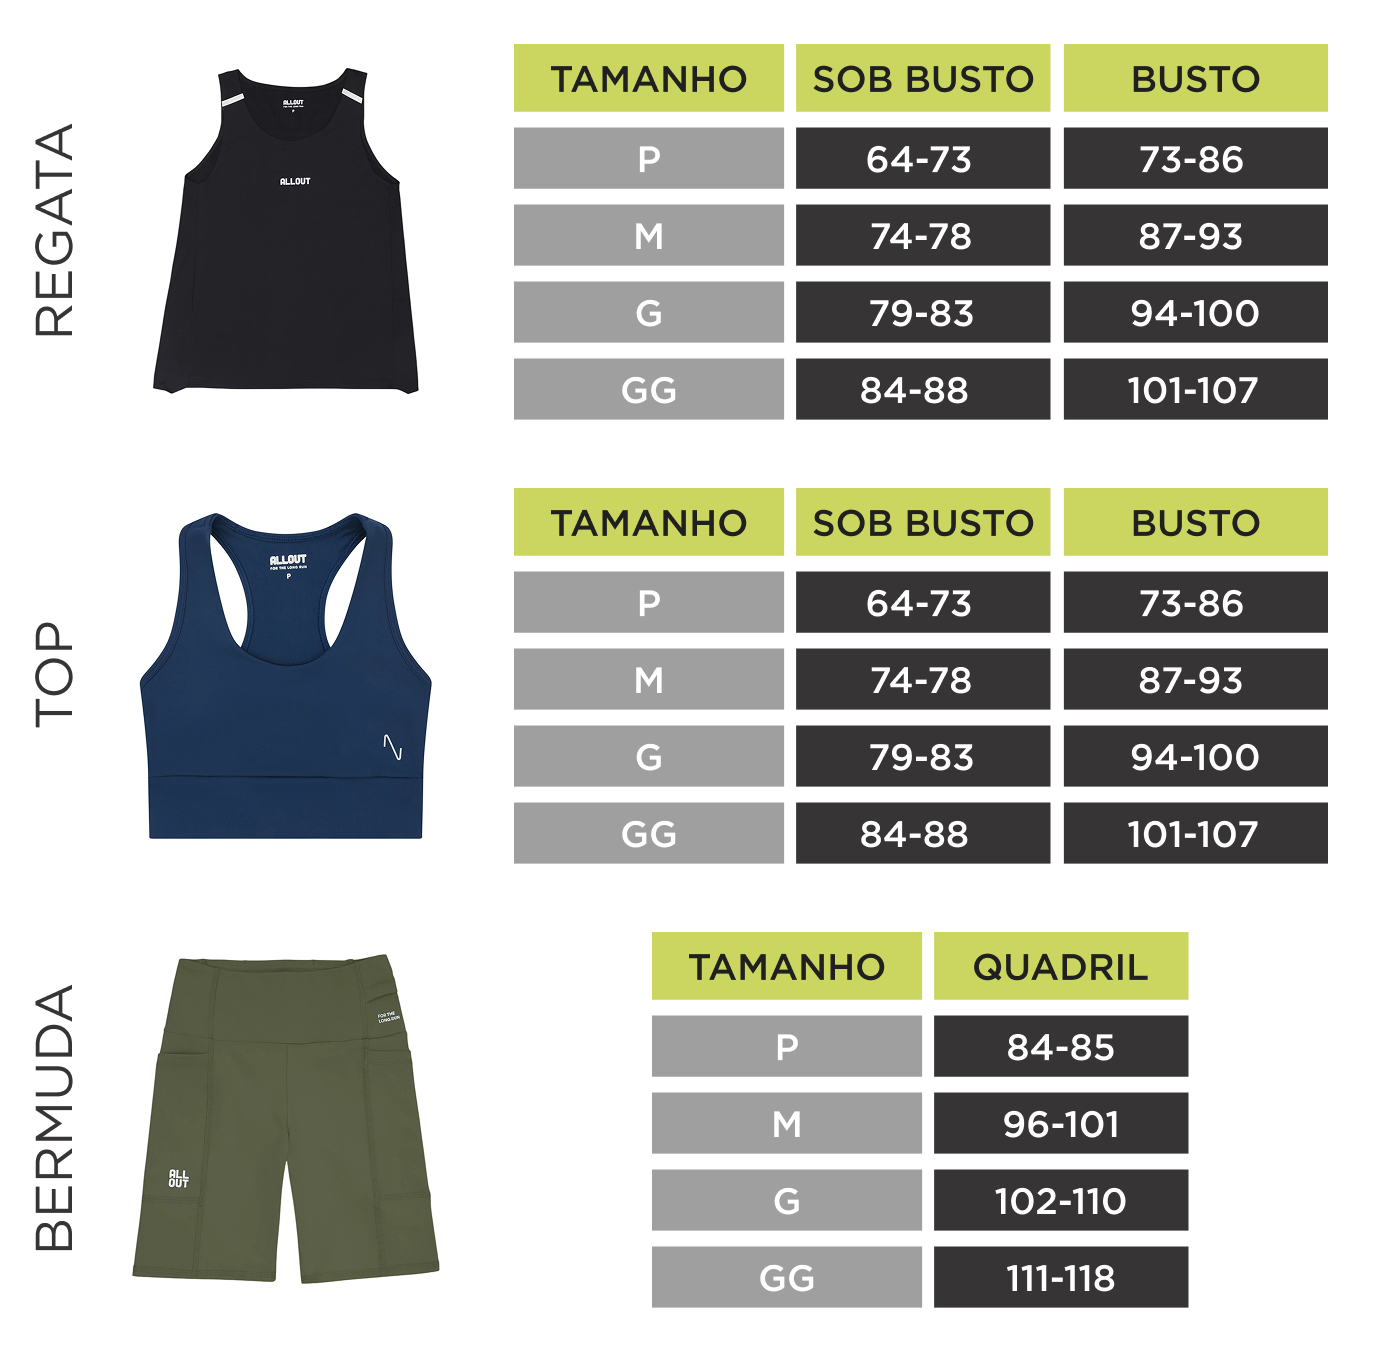
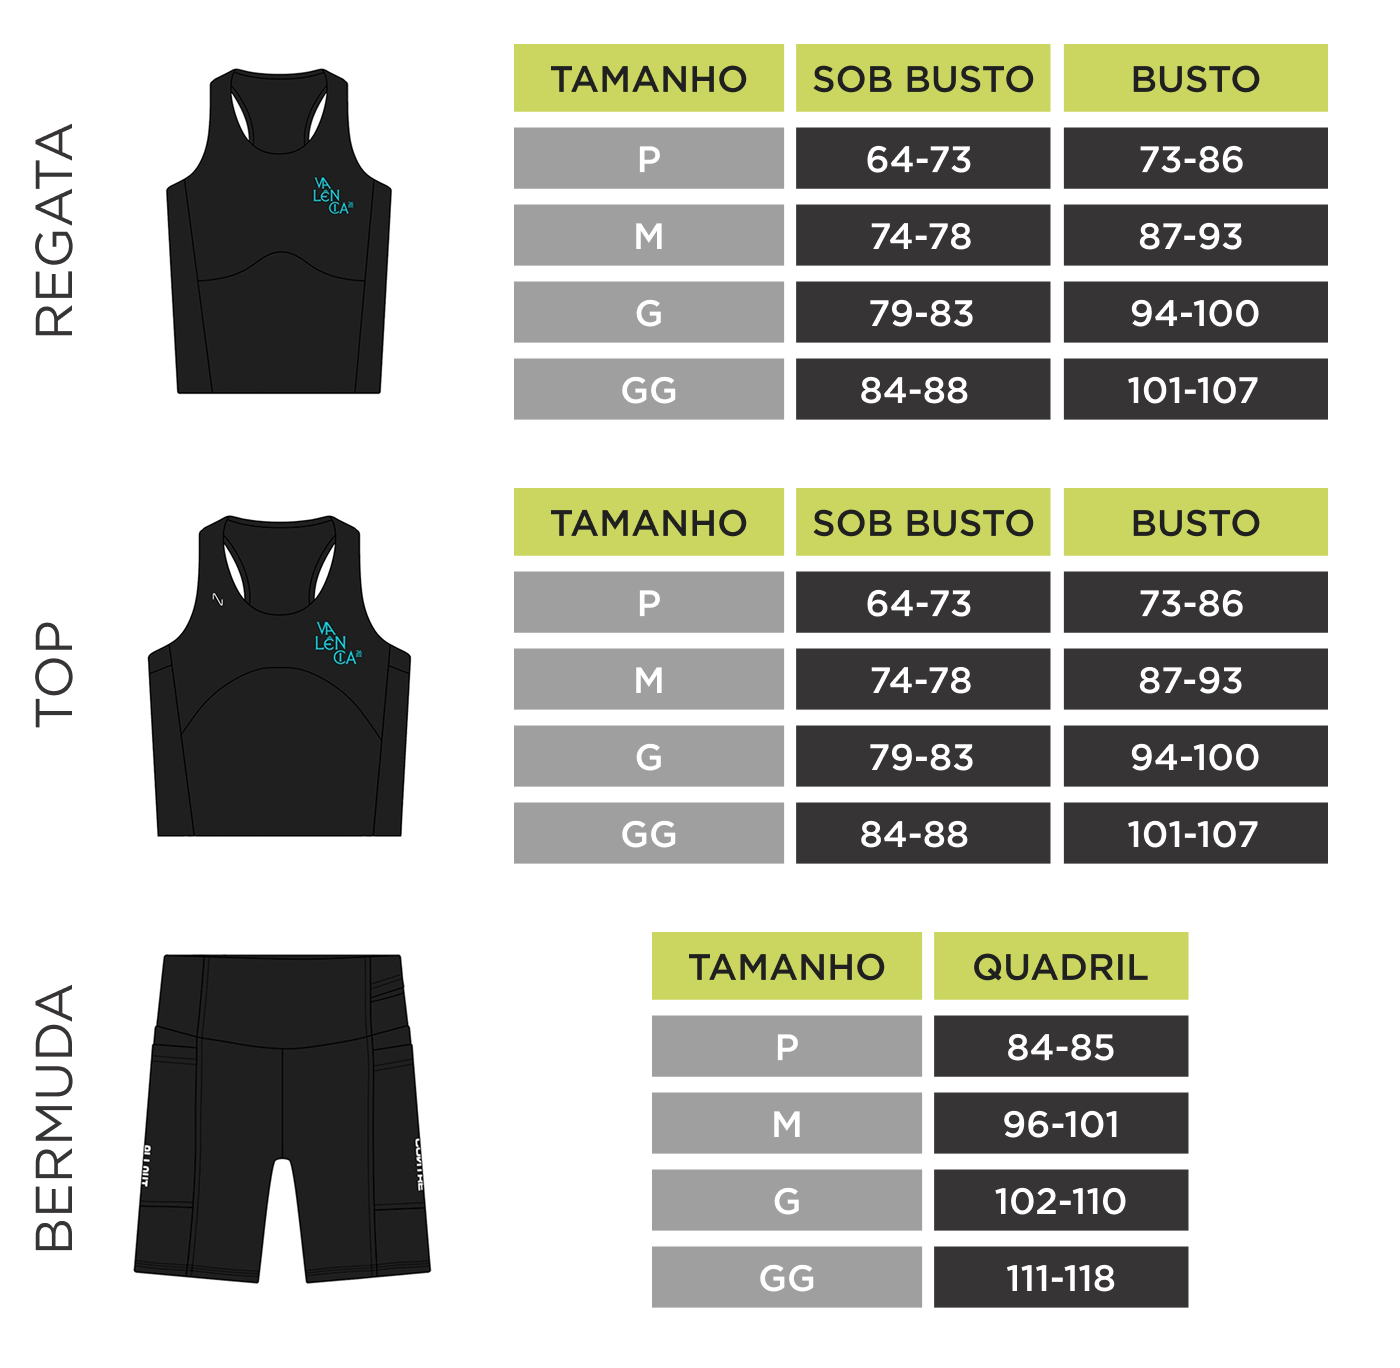
new file:   img/bermuda.jpeg 	new file:   img/regata_chicago.jpeg 	new file:   img/regata_valencia.jpeg 	modified:   img/tabela_tamanhos.png 	new file:   img/top_chicago.jpeg 	new file:   img/top_valencia.jpeg 	modified:   index.html

Changed region(s): [[0.0921, 0.6754, 0.3379, 0.9518], [0.0921, 0.3684, 0.3071, 0.614], [0.0921, 0.0307, 0.3071, 0.307]]

diff --git a/index.html b/index.html
@@ -126,6 +126,7 @@
 
   /* ---------- section shell ---------- */
   section.step{padding:44px 0;}
+  section.step.step-locked{display:none;}
   .step-head{display:flex;align-items:baseline;gap:14px;margin-bottom:22px;}
   .step-num{font-family:var(--font-body);font-size:13px;color:var(--muted);border:1px solid var(--line);border-radius:100px;width:30px;height:30px;display:flex;align-items:center;justify-content:center;flex:none;}
   .step-title{font-size:28px;}
@@ -151,7 +152,8 @@
   .race-card .rc-city{font-family:var(--font-display);font-weight:700;font-size:clamp(16px,2.2vw,30px);margin:4px 0 6px;}
   .race-card .rc-date{font-size:13px;color:var(--muted);}
   .race-card .rc-check{position:absolute;bottom:16px;right:16px;width:22px;height:22px;border-radius:50%;border:1.5px solid var(--line);}
-  .race-card .race-thumb{aspect-ratio:auto;height:140px;margin-bottom:14px;}
+  .race-card .race-thumb{aspect-ratio:auto;height:260px;margin-bottom:14px;}
+  .race-card .race-thumb img{width:100%;height:100%;object-fit:cover;object-position:center top;}
   .race-card.sel .rc-check{background:var(--lime);border-color:var(--lime);}
   .race-card.sel .rc-check::after{content:'✓';color:var(--lime-ink);font-size:13px;display:flex;align-items:center;justify-content:center;height:100%;font-weight:700;}
 
@@ -173,7 +175,7 @@
     aspect-ratio:1/1;border-radius:9px;background:linear-gradient(155deg,#1c1c1c 0%,#3a3a3a 45%,#0a0a0a 100%);
     position:relative;overflow:hidden;display:flex;align-items:center;justify-content:center;
   }
-  .g-thumb img{width:62%;height:62%;object-fit:contain;opacity:.92;}
+  .g-thumb img{width:100%;height:100%;object-fit:cover;object-position:center top;}
   .g-thumb .ph-badge{
     position:absolute;bottom:8px;left:8px;right:8px;
     font-family:var(--font-body);font-size:9.5px;color:#e7e7df;background:rgba(0,0,0,.45);
@@ -397,17 +399,41 @@ footer{
   <section class="step">
     <div class="step-head">
       <div class="step-num mono">01</div>
-      <div><div class="step-title">Escolha seu top</div><div class="step-sub">Ilustrações das peças entram aqui em breve.</div></div>
+      <div><div class="step-title">Qual prova você vai correr?</div></div>
+    </div>
+    <div class="race-grid">
+      <div class="race-card" data-race="chicago" data-code="CHI" data-city="Chicago" onclick="selectRace('chicago')">
+        <div class="rc-check"></div>
+        <div class="g-thumb race-thumb"><img src="img/top_chicago.jpeg" alt="Chicago"></div>
+        <div class="rc-city">Chicago</div>
+        <div class="rc-date">Maratona de Chicago · 08 a 12.10.2026</div>
+      </div>
+      <div class="race-card" data-race="valencia" data-code="VLC" data-city="Valência" onclick="selectRace('valencia')">
+        <div class="rc-check"></div>
+        <div class="g-thumb race-thumb"><img src="img/top_valencia.jpeg" alt="Valência"></div>
+        <div class="rc-city">Valência</div>
+        <div class="rc-date">Maratona de Valência · 03 a 07.12.2026</div>
+      </div>
+    </div>
+  </section>
+
+  <div class="perf"></div>
+
+  <!-- STEP 2 -->
+  <section class="step step-locked" id="step-top">
+    <div class="step-head">
+      <div class="step-num mono">02</div>
+      <div><div class="step-title">Escolha seu top</div><div class="step-sub"><em>Imagens meramente ilustrativas.</em></div></div>
     </div>
 
     <div class="garment-grid" id="top-grid">
       <div class="g-card" data-item="topA" onclick="selectGarment('top','topA')">
-        <div class="g-thumb"><img src="img/top-a.png" alt="Opção 1 de top"><div class="ph-badge">FOTO EM BREVE</div></div>
-        <div class="g-info"><div class="g-name">Opção 1</div><div class="g-radio"></div></div>
+        <div class="g-thumb"><img id="top-a-img" src="" alt=""></div>
+        <div class="g-info"><div class="g-name" id="top-a-name">Opção 1</div><div class="g-radio"></div></div>
       </div>
       <div class="g-card" data-item="topB" onclick="selectGarment('top','topB')">
-        <div class="g-thumb"><img src="img/top-b.png" alt="Opção 2 de top"><div class="ph-badge">FOTO EM BREVE</div></div>
-        <div class="g-info"><div class="g-name">Opção 2</div><div class="g-radio"></div></div>
+        <div class="g-thumb"><img id="top-b-img" src="" alt=""></div>
+        <div class="g-info"><div class="g-name" id="top-b-name">Opção 2</div><div class="g-radio"></div></div>
       </div>
     </div>
 
@@ -443,21 +469,17 @@ footer{
 
   <div class="perf"></div>
 
-  <!-- STEP 2 -->
-  <section class="step">
+  <!-- STEP 3 -->
+  <section class="step step-locked" id="step-bermuda">
     <div class="step-head">
-      <div class="step-num mono">02</div>
-      <div><div class="step-title">Escolha sua bermuda</div><div class="step-sub">Ilustrações das peças entram aqui em breve.</div></div>
+      <div class="step-num mono">03</div>
+      <div><div class="step-title">Bermuda</div><div class="step-sub"><em>Imagens meramente ilustrativas.</em></div></div>
     </div>
 
-    <div class="garment-grid" id="bermuda-grid">
+    <div class="garment-grid single" id="bermuda-grid">
       <div class="g-card" data-item="bermudaA" onclick="selectGarment('bermuda','bermudaA')">
-        <div class="g-thumb"><img src="img/bermuda-a.png" alt="Opção 1 de bermuda"><div class="ph-badge">FOTO EM BREVE</div></div>
-        <div class="g-info"><div class="g-name">Opção 1</div><div class="g-radio"></div></div>
-      </div>
-      <div class="g-card" data-item="bermudaB" onclick="selectGarment('bermuda','bermudaB')">
-        <div class="g-thumb"><img src="img/bermuda-b.png" alt="Opção 2 de bermuda"><div class="ph-badge">FOTO EM BREVE</div></div>
-        <div class="g-info"><div class="g-name">Opção 2</div><div class="g-radio"></div></div>
+        <div class="g-thumb"><img id="bermuda-a-img" src="" alt=""></div>
+        <div class="g-info"><div class="g-name" id="bermuda-a-name">Opção 1</div><div class="g-radio"></div></div>
       </div>
     </div>
 
@@ -475,30 +497,6 @@ footer{
       </div>
     </div>
     <a class="size-guide-link" href="#" onclick="openSizeGuide('tabela_tamanhos.png'); return false;">Consultar tabela de medidas</a>
-  </section>
-
-  <div class="perf"></div>
-
-  <!-- STEP 3 -->
-  <section class="step">
-    <div class="step-head">
-      <div class="step-num mono">03</div>
-      <div><div class="step-title">Qual prova você vai correr?</div></div>
-    </div>
-    <div class="race-grid">
-      <div class="race-card" data-race="chicago" data-code="CHI" data-city="Chicago" onclick="selectRace('chicago')">
-        <div class="rc-check"></div>
-        <div class="g-thumb race-thumb"><img src="img/top-a.png" alt="Chicago"><div class="ph-badge">FOTO EM BREVE</div></div>
-        <div class="rc-city">Chicago</div>
-        <div class="rc-date">Maratona de Chicago · 08 a 12.10.2026</div>
-      </div>
-      <div class="race-card" data-race="valencia" data-code="VLC" data-city="Valência" onclick="selectRace('valencia')">
-        <div class="rc-check"></div>
-        <div class="g-thumb race-thumb"><img src="img/top-b.png" alt="Valência"><div class="ph-badge">FOTO EM BREVE</div></div>
-        <div class="rc-city">Valência</div>
-        <div class="rc-date">Maratona de Valência · 03 a 07.12.2026</div>
-      </div>
-    </div>
   </section>
 
   <div class="perf"></div>
@@ -590,11 +588,45 @@ footer{
 </div>
 
 <script>
-const GARMENT_NAMES = {
-  topA: 'Opção 1', topB: 'Opção 2',
-  bermudaA: 'Opção 1', bermudaB: 'Opção 2'
+const RACE_GARMENTS = {
+  chicago: {
+    top: {
+      topA: { name:'Top Chicago', img:'img/top_chicago.jpeg' },
+      topB: { name:'Regata Chicago', img:'img/regata_chicago.jpeg' }
+    },
+    bermuda: {
+      bermudaA: { name:'Bermuda Chicago', img:'img/bermuda.jpeg' }
+    }
+  },
+  valencia: {
+    top: {
+      topA: { name:'Top Valência', img:'img/top_valencia.jpeg' },
+      topB: { name:'Regata Valência', img:'img/regata_valencia.jpeg' }
+    },
+    bermuda: {
+      bermudaA: { name:'Bermuda Valência', img:'img/bermuda.jpeg' }
+    }
+  }
 };
 const RACE_NAMES = { chicago: {city:'Chicago', code:'CHI · ORD'}, valencia: {city:'Valência', code:'VLC'} };
+
+function garmentInfo(group, item){
+  if(!state.race || !item) return null;
+  return RACE_GARMENTS[state.race][group][item];
+}
+
+function populateGarmentOptions(){
+  const g = RACE_GARMENTS[state.race];
+  document.getElementById('top-a-img').src = g.top.topA.img;
+  document.getElementById('top-a-img').alt = g.top.topA.name;
+  document.getElementById('top-a-name').textContent = g.top.topA.name;
+  document.getElementById('top-b-img').src = g.top.topB.img;
+  document.getElementById('top-b-img').alt = g.top.topB.name;
+  document.getElementById('top-b-name').textContent = g.top.topB.name;
+  document.getElementById('bermuda-a-img').src = g.bermuda.bermudaA.img;
+  document.getElementById('bermuda-a-img').alt = g.bermuda.bermudaA.name;
+  document.getElementById('bermuda-a-name').textContent = g.bermuda.bermudaA.name;
+}
 
 let state = { race:null, top:null, bermuda:null, sizes:{top:null, bermuda:null}, text:'' };
 
@@ -609,8 +641,25 @@ function buildBarcode(el){
 buildBarcode(document.getElementById('barcode'));
 
 function selectRace(race){
+  const changed = state.race !== race;
   state.race = race;
   document.querySelectorAll('.race-card').forEach(c=>c.classList.toggle('sel', c.dataset.race===race));
+
+  if(changed){
+    state.top = null;
+    state.bermuda = null;
+    state.sizes.top = null;
+    state.sizes.bermuda = null;
+    document.querySelectorAll('#top-grid .g-card, #bermuda-grid .g-card').forEach(c=>c.classList.remove('sel'));
+    document.querySelectorAll('.size-opt').forEach(b=>b.classList.remove('sel'));
+    document.getElementById('top-size-label').textContent = 'Escolha o modelo acima';
+    document.getElementById('bermuda-size-label').textContent = 'Escolha o modelo acima';
+  }
+
+  populateGarmentOptions();
+  document.getElementById('step-top').classList.remove('step-locked');
+  document.getElementById('step-bermuda').classList.remove('step-locked');
+
   updateSummary();
 }
 
@@ -619,7 +668,8 @@ function selectGarment(group, item){
   const gridId = group==='top' ? 'top-grid' : 'bermuda-grid';
   document.querySelectorAll('#'+gridId+' .g-card').forEach(c=>c.classList.toggle('sel', c.dataset.item===item));
   const label = document.getElementById(group+'-size-label');
-  if(label) label.textContent = GARMENT_NAMES[item];
+  const info = garmentInfo(group, item);
+  if(label && info) label.textContent = info.name;
   updateSummary();
 }
 
@@ -651,8 +701,8 @@ function updateSummary(){
     document.getElementById('t-city').textContent = 'Escolha sua prova';
   }
   setRow('t-nome', nome);
-  setRow('t-top', state.top ? (GARMENT_NAMES[state.top]+(state.sizes.top?' · '+state.sizes.top:'')) : '', 'não escolhido');
-  setRow('t-bermuda', state.bermuda ? (GARMENT_NAMES[state.bermuda]+(state.sizes.bermuda?' · '+state.sizes.bermuda:'')) : '', 'não escolhida');
+  setRow('t-top', state.top ? (garmentInfo('top',state.top).name+(state.sizes.top?' · '+state.sizes.top:'')) : '', 'não escolhido');
+  setRow('t-bermuda', state.bermuda ? (garmentInfo('bermuda',state.bermuda).name+(state.sizes.bermuda?' · '+state.sizes.bermuda:'')) : '', 'não escolhida');
   setRow('t-personal', state.text, '—');
   updateSubmitState();
 }
@@ -700,8 +750,8 @@ async function submitForm(){
     nascimento: document.getElementById('f-nasc').value.trim(),
     email: document.getElementById('f-email').value.trim(),
     telefone: document.getElementById('f-tel').value.trim(),
-    top: GARMENT_NAMES[state.top],
-    bermuda: GARMENT_NAMES[state.bermuda],
+    top: garmentInfo('top', state.top).name,
+    bermuda: garmentInfo('bermuda', state.bermuda).name,
     tamanhos: state.sizes,
     personalizacaoTop: state.text,
     enviadoEm: new Date().toISOString()
